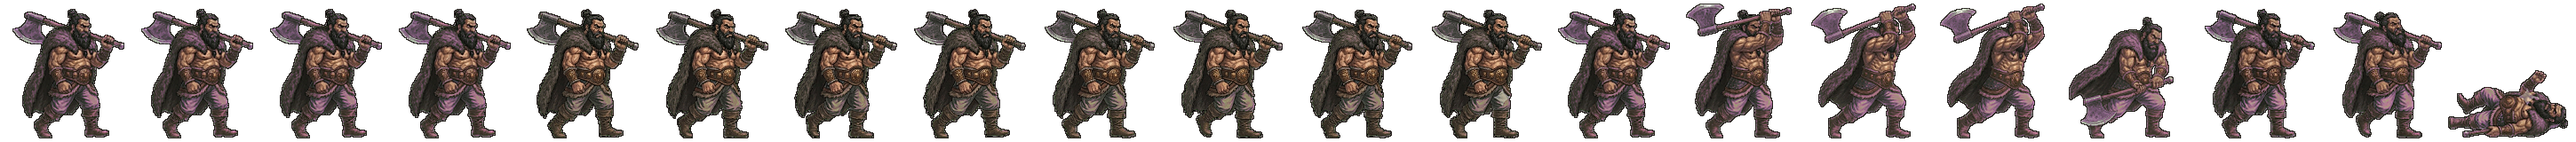
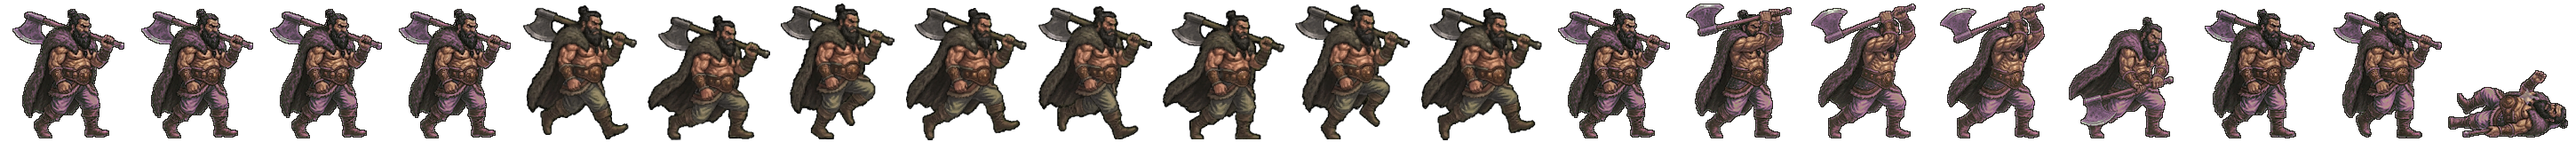
산적 졸개·두목 달리기 띠 여덟 칸을 진짜 달리기로 (제미나이 u/2) · 코드로 다리 흉내내던 drawScissor 걷어냄 · 옛 띠는 retired
Claude-Session: https://claude.ai/code/session_01TRiuN9kn81xgdziumEqNAF

Changed region(s): [[0.1862, 0.0312, 0.6207, 1.0]]

diff --git a/src/pirate/draw.ts b/src/pirate/draw.ts
@@ -71,10 +71,6 @@ const ART = {
   crate: 'pirate/crate.png',
   /** 걸음 한 바퀴(컷 여덟)가 디디는 거리 (m) */
   strideM: 1.6,
-  /** 산적 띠의 허리 높이(위에서 0~1) · 몸 가운데 가로(0~1) · 걸음마다 솟는 몫 (키 대비) */
-  hipV: 0.6,
-  hipX: 0.5,
-  bobV: 0.035,
   /** 공격 컷이 넘어가는 빠르기 (컷/초) */
   hitFps: 10,
   /** 목책에 이만큼 다가오면 칼을 휘두른다 (m) */
@@ -180,29 +176,6 @@ function drawStrip(ctx: CanvasRenderingContext2D, im: HTMLImageElement, ar: numb
   ctx.restore()
 }
 
-/** 걸음 한 걸음 — 허리 위는 그대로(걸음마다 살짝 솟는다), 허리 아래는 가로로 cos 만큼 좌우로 뒤집혀 두 다리가 교대한다 */
-function drawScissor(ctx: CanvasRenderingContext2D, im: HTMLImageElement, ar: number, frame: number, cx: number, soleY: number, tallPx: number, faceLeft: boolean, phase: number): void {
-  const ch = im.naturalHeight
-  const cw = ch * ar
-  const dh = tallPx
-  const dw = dh * ar
-  const hip = ART.hipV
-  const c = Math.cos(phase * Math.PI * 2)
-  const lift = (1 - Math.abs(c)) * ART.bobV * dh
-  const sy = hip * ch
-  ctx.imageSmoothingQuality = 'high'
-  ctx.save()
-  ctx.translate(cx, soleY)
-  if (faceLeft) ctx.scale(-1, 1)
-  // 허리 위
-  ctx.drawImage(im, frame * cw, 0, cw, sy, -dw / 2, -dh - lift, dw, hip * dh)
-  // 허리 아래 — 가운데 축을 기준으로 가로 배율 c (1 → 0 → −1). 발은 땅에 붙고 허리 쪽이 lift 만큼 늘어난다
-  ctx.translate(ART.hipX * dw - dw / 2, 0)
-  ctx.scale(Math.abs(c) < 0.06 ? (c < 0 ? -0.06 : 0.06) : c, 1)
-  ctx.drawImage(im, frame * cw, sy, cw, ch - sy, -ART.hipX * dw, -(1 - hip) * dh - lift, dw, (1 - hip) * dh + lift)
-  ctx.restore()
-}
-
 function drawRunner(ctx: CanvasRenderingContext2D, cam: Camera, w: World, t: Target, x: number, captain: boolean, bandit: boolean, shielded = false, p: PirateRun | null = null): boolean {
   let a: { readonly ar: number; readonly walk0: number; readonly walkN: number; readonly hit0: number; readonly hitN: number; readonly tallM: number } = captain ? ART.captain : ART.sword
   let im: HTMLImageElement | null
@@ -227,11 +200,7 @@ function drawRunner(ctx: CanvasRenderingContext2D, cam: Camera, w: World, t: Tar
     : a.walk0 + (Math.floor((R.spawnX + 4 - t.x) / (ART.strideM / a.walkN) + t.id) % a.walkN)
   const lane: Lane = bandit ? (p?.lane[t.id] ?? 0) : 0
   const soleY = worldToScreenY(cam, bandit ? footY(lane, t.x) : 0)
-  if (bandit && !near && !shielded && !broken) {
-    // 산적 띠는 걷기 칸이 다 같은 자세(한 다리만 앞)라 그대로 돌리면 한쪽 다리로 콩콩 뛴다 (11-12 진단 · 칸 4~11 이 거의 같은 그림).
-    // 한 칸만 쓰고 허리 아래를 좌우로 뒤집었다 펴서 두 다리가 번갈아 앞서는 걸음으로 — 새 띠가 올 때까지의 대용
-    drawScissor(ctx, im, a.ar, a.walk0 + 2, x, soleY, a.tallM * cam.scale, flip, ((R.spawnX + 4 - t.x) / ART.strideM + t.id * 0.37) % 1)
-  } else drawStrip(ctx, im, a.ar, frame, x, soleY, a.tallM * cam.scale, flip) // 도적 띠는 왼쪽(궁수)을 보고 그렸다 · 산적·방패 띠는 오른쪽이라 뒤집는다 (형 11-10)
+  drawStrip(ctx, im, a.ar, frame, x, soleY, a.tallM * cam.scale, flip) // 도적 띠는 왼쪽(궁수)을 보고 그렸다 · 산적·방패 띠는 오른쪽이라 뒤집는다 (형 11-10)
   if (captain && t.hpMax > 0) {
     // 두목의 남은 몸 — 머리 위 한 줄
     const bw = Math.max(36, t.r * 1.6 * cam.scale)

diff --git a/docs/realm/ART-QUEUE.md b/docs/realm/ART-QUEUE.md
@@ -13,10 +13,10 @@
 | retyper92 (계정 고르기에 「YunCheol Shin · retyper92@gmail」 로 뜬다 · 왼쪽 아래 「YunCheol Shin · Free」 · 11-08 밤 형이 바꿔 둠) | **11-11 AM 1:43** (11-11 00:4x 한도 문구 「AM 1:43에까지」 · 새 대화 왼쪽 아래 「YunCheol Shin · Free」(retyper92@gmail) · 진각성 g-103 가락 피도간 첫 장에서 막힘 · 다음은 aw2-g-103 부터) · 옛: **11-09 PM 11:29** (11-09 00:1x 한도 문구 「PM 11:29에」 · 23:4x~00:1x 진각성 다래·무등·소금·매눈·철장군·거인·술꾼 + 「나중에 생성」 무료 예약 셋(쇠보·아단 받음 · 바우 대화 6af08e65 받을 것)) · 옛: **11-06 PM 10:42** (11-05 22:4x~23:18 진각성 열 장 · 한도 문구) · 옛: **11-05 PM 10:11** (형 11-04 밤 · 형이 각성 굽다 다 씀) · 옛: **11-04 PM 8:22** (11-03 20:2x 한도 문구 · 형이 로그인해 준 뒤 열 장쯤) · 옛: 11-03 PM 4:49 | 10-29 15:50 한도 문구 — 15:36 부터 열 장 (사건 romance·wanderer-arrives-g + 초상 g-31·g-39·g-72·L5·L6·L8·L9·L10) · 시각이 지나기 전이라도 한 번 넣어 볼 것 |
 | roqkfeke12 ('윤철 신') | **11-06 PM 11:20** (11-05 23:2x~23:55 진각성 열 장 · 한도 문구) · 옛: **11-05 PM 10:23** (형 11-04 밤 · 형이 각성 굽다 다 씀) · 옛: **11-04 PM 7:03** (11-03 19:4x 한도 문구 · 19:1x 부터 열 장쯤) · 옛: 11-03 PM 5:15 | 10-29 20:21 한도 문구 — 18:46 부터 열 장 (초상 L10 평강 · w-07 무당 여왕 · w-16 문중 어른 · g-34 두만 · g-35 달구 · g-46 누렁소 · g-56 과하마 · w-70 물범 + 군막 바탕 + 자란 아이 y-g-10 명궁) |
 | **Facts Gamble** (형 11-03 밤에 찾은 새 계정 · 왼쪽 아래 「Facts Gamble · Free」) | **11-06 저녁쯤** (11-05 18:44~19:33 진각성 스물한 장 · 스물두째에서 99% 멈춤 = 한도로 봄) · 옛: **11-05 PM 6:25** (11-05 16:00 쇠비 진각성 넣자 「PM 6:25까지」 다시 확인 · 형 11-04 밤 확인 · 20:10 웅녀 각성 뒤) · 옛: 11-04 PM 3:15 쯤 (11-04 14:16 첫 장(수성 바탕)에서 바로 한도 문구 「59분 후」) · 옛: 11-04 PM 2:5x (11-03 16:52 「22시간 후」) | 11-03 15:1x~16:2x 스물한 장 (겹치는 얼굴 넷 · 원군 · 승리 시험 둘 · 4·5장 초상 여섯 · 아홉 간 일곱 · 고침 둘) |
-| retyper (hephaestosian · 'retyper' · 11-11 20:4x 이 PC 크롬 왼쪽 아래 「retyper · Free」) | **11-12 00:15 한도 문구 「이미지 생성 한도에 도달했습니다 … 또는 3분 후까지 기다리면 다시 생성할 수 있습니다」 → 00:21 풀려 진각성 여섯 장(solmae·neoul·darae·galmae·dangung·young-archer) + 자세 바꾸기 후속 넷 = 열 번 구워도 안 막힘 · 다음 한도 시각은 아직 안 뜸** · 옛: **11-12 AM 12:16** (11-11 20:5x 한도 문구 「이미지 생성 한도에 도달했습니다. 현재 무료 이미지를 모두 사용했습니다 … 또는 내일 AM 12:16에까지 기다리면 다시 생성할 수 있습니다」 · 15세 판 w-18 진염 첫 장에서 바로 막힘(그림 못 받음) · 다음은 gpt15_aw1-w-18-jinhan-salt-widow 부터 · 같은 시각 앞서 쓴 hephaestosian 애플 계정 줄 11-11 PM 11:12 는 건드리지 않음 · 그 계정은 15세 첫 장 전송 뒤 「계정 전환 중」으로 retyper 로 넘어감) · 옛: **11-09 PM 9:49** (11-08 23:3x 한도 문구 「내일 PM 9:49에」 · 22:5x~23:3x 1차 각성 남장수 열(g-61~g-70) + 진각성 노을(안 씀 · 형이 직접)·다나·탈해 너울 · 다래에서 막힘) · 옛: **11-06 PM 9:13** (계정 고르기엔 이 계정과 edu 둘만 있다 · retyper92·roqkfeke12·Facts 는 로그인돼 있지 않음 · 11-05 22:3x 한도 문구 · 21:1x~22:3x 진각성 열넷쯤 · 사람마다 다른 옷 틀로 바꿈) · 옛: **11-05 PM 8:31** (형 11-04 밤 · 형이 각성 굽다 다 씀) · 옛: **11-04 PM 6:43** (11-03 19:0x 한도 문구 · 18:4x 부터 열세 장쯤 · 각성 초상) · 옛: 11-03 PM 4:23 | 10-29 23:56 한도 문구 — 23:41 부터 열 장 (자란 아이 y-w-10 · y-g/w-11 · y-g/w-12 · y-g/w-13 · y-g/w-14 · 열 번째 y-w-14 는 문구와 함께 그림도 왔다) |
+| retyper (hephaestosian · 'retyper' · 11-11 20:4x 이 PC 크롬 왼쪽 아래 「retyper · Free」) | **11-12 AM 12:20** (11-12 01:27 한도 문구 「이미지 생성 한도에 도달했습니다. 현재 무료 이미지를 모두 사용했습니다. Plus로 업그레이드하면 … 또는 내일 AM 12:20까지 기다리면 다시 생성할 수 있습니다」 · 왼쪽 아래 「retyper · Free」 · 진각성 g-50 불내 과하 둘째 장(활 되살림) 뒤 g-52 탐라 오름 첫 장에서 막힘 · 다음은 aw2-g-52-tamna-oreum 부터 g-58 우산·g-59 양맥·g-61 압독·g-62 감문·g-63 초발) · 옛: **11-12 00:15 한도 문구 「이미지 생성 한도에 도달했습니다 … 또는 3분 후까지 기다리면 다시 생성할 수 있습니다」 → 00:21 풀려 진각성 여섯 장(solmae·neoul·darae·galmae·dangung·young-archer) + 자세 바꾸기 후속 넷 = 열 번 구워도 안 막힘 · 다음 한도 시각은 아직 안 뜸** · 옛: **11-12 AM 12:16** (11-11 20:5x 한도 문구 「이미지 생성 한도에 도달했습니다. 현재 무료 이미지를 모두 사용했습니다 … 또는 내일 AM 12:16에까지 기다리면 다시 생성할 수 있습니다」 · 15세 판 w-18 진염 첫 장에서 바로 막힘(그림 못 받음) · 다음은 gpt15_aw1-w-18-jinhan-salt-widow 부터 · 같은 시각 앞서 쓴 hephaestosian 애플 계정 줄 11-11 PM 11:12 는 건드리지 않음 · 그 계정은 15세 첫 장 전송 뒤 「계정 전환 중」으로 retyper 로 넘어감) · 옛: **11-09 PM 9:49** (11-08 23:3x 한도 문구 「내일 PM 9:49에」 · 22:5x~23:3x 1차 각성 남장수 열(g-61~g-70) + 진각성 노을(안 씀 · 형이 직접)·다나·탈해 너울 · 다래에서 막힘) · 옛: **11-06 PM 9:13** (계정 고르기엔 이 계정과 edu 둘만 있다 · retyper92·roqkfeke12·Facts 는 로그인돼 있지 않음 · 11-05 22:3x 한도 문구 · 21:1x~22:3x 진각성 열넷쯤 · 사람마다 다른 옷 틀로 바꿈) · 옛: **11-05 PM 8:31** (형 11-04 밤 · 형이 각성 굽다 다 씀) · 옛: **11-04 PM 6:43** (11-03 19:0x 한도 문구 · 18:4x 부터 열세 장쯤 · 각성 초상) · 옛: 11-03 PM 4:23 | 10-29 23:56 한도 문구 — 23:41 부터 열 장 (자란 아이 y-w-10 · y-g/w-11 · y-g/w-12 · y-g/w-13 · y-g/w-14 · 열 번째 y-w-14 는 문구와 함께 그림도 왔다) |
 | 제미나이 u/0 (신윤철 · 무료) | **11-11 23:0x 한도 없음 · 유천간 동작 시트 한 장 구워도 안 막힘** · 옛: **11-11 19~21시 전투 띠 다시 굽기 일곱 장(창·칼·오간 동작 · 도끼병 걷기 · 별 걷기 둘 · 구름 걷기) 구워도 한도 안 뜸 (16:9 · 참고 그림 1~2장)** · 옛: **11-11 02:0x 겨루기 마당 세 장 구워도 한도 안 뜸 (9:16 · 참고 그림 하나)** · 옛: **11-10 00:2x쯤** (11-09 00:2x 「I can create more images as soon as your limit resets」 · 23:33~00:2x 남장수 띠 열한 명 남짓) · 옛: **11-08 PM 11:33** (11-08 21:4x 메뉴 위 「한도 도달 · 오후 11:33에 재설정」 · 오늘 전투 띠·공사 그림 스무 장 남짓) | 11-08 21:41 |
 | 제미나이 u/5 (Facts Gamble · 무료) | **11-11 23:0x 한도 없음 · 신천간 동작 시트 한 장(16:9 · 초상 한 장) 구워도 안 막힘** · 옛: **11-11 02:5x 겨루기 군사 격자 두 장 구워도 한도 안 뜸 (3:2 · 참고 그림 없음)** | 11-11 02:5x |
-| 제미나이 u/2 (retyper · 무료) | **11-11 23:0x 한도 없음 · 매눈 동작 시트 한 장 구워도 안 막힘** · 옛: **11-11 21:4x 한도 없음 · 매눈 걷기 한 장(Flash) 구워도 안 막힘** · 옛: **11-11 01:1x 한도 없음 · 큰 공사 단계 12장 + 큰 잔치 + 완공 장면 넷 = 열일곱 장 뒤에도 안 막힘** · 옛: **11-10 01시쯤** (11-09 01:0x 메뉴 「이미지 만들기」 흐림 · 사용량 보기 · 남장수 띠 여도간~괘유 열네 장쯤) | 11-09 01:0x |
+| 제미나이 u/2 (retyper · 무료) | **11-12 01:0x~01:3x 한도 없음 · 고갯길 배경 둘 + 산적 달리기 시트 넷(졸개 둘·두목 하나 · 16:9 · 참고 그림 한 장) 구워도 안 막힘** · 옛: **11-11 23:0x 한도 없음 · 매눈 동작 시트 한 장 구워도 안 막힘** · 옛: **11-11 21:4x 한도 없음 · 매눈 걷기 한 장(Flash) 구워도 안 막힘** · 옛: **11-11 01:1x 한도 없음 · 큰 공사 단계 12장 + 큰 잔치 + 완공 장면 넷 = 열일곱 장 뒤에도 안 막힘** · 옛: **11-10 01시쯤** (11-09 01:0x 메뉴 「이미지 만들기」 흐림 · 사용량 보기 · 남장수 띠 여도간~괘유 열네 장쯤) | 11-09 01:0x |
 | 제미나이 u/1 (retyper92 · 화면 이름 Muffin Goodbye · 무료) | **11-11 23:0x 한도 없음 · 별(2장)·구름·감실 동작 시트 네 장 구워도 안 막힘 (16:9 · 초상 한 장)** · 옛: **11-11 02:3x 겨루기 군사 줄 두 장 구워도 한도 안 뜸 (16:9 · 참고 그림 없음)** · 옛: **11-10 밤 11시쯤** (11-09 23:11 메뉴 「이미지 만들기」 흐림 · 23:04~23:11 동작 띠 다시 둘(오디·가온 · SPEAR 절 됨) · 다음은 해솔부터) · 옛: **11-09 밤 11시쯤** (11-08 23:13 「I can create more images as soon as your limit resets」 · 22:57~23:13 전투 띠 유천간·사로 달래·탈해 너울 걷기 둘 · 탈해 너울 동작 고침에서 막힘 · 열 장 남짓) | 11-08 23:13 |
 | **제미나이 4 Argon** (Jay u/4 · 이미지 만들기 · 에셋 전용) | **11-04 AM 4:54** (모델 고르기 창에 「한도가 11월 4일 오전 4:54에 초기화」 · Flash·Pro·Argon 모두 · 11-04 03:2x 확인) (11-04 02:06 한도 문구 「I can create more images as soon as your limit resets」 · 11-04 00:5x 부터 열 장쯤: 여창·여활 C · 농민군 A·B·C · 창병 시험 둘 · 소서노 A 둘) · 옛: 11-03 밤 | 11-04 02:06 — 장수 제 띠 소서노 B 에서 막힘. 소서노 A(쓸 것)는 assets_src/realm/gemini/generals/walk2/gen-soseono-a.png · 대화 gemini.google.com/u/4/app/e832d7e8cc84b039 에서 B·C 를 이어 받는다 |
 | 제미나이 edu (u/3 · YunCheol Shin · minerva · 3.1 Pro · 이미지 만들기) | **11-11 PM 10:56 풀림 (11-11 21:3x 한도 문구 「Sorry, I can't generate more images for you today, but come back tomorrow and we can make more.」 + 「You've reached your image generation limit until 11월 11일 오후 10:56.」 · 19:5x~21:3x 전투 띠 시트 열두 장(여궁수·소금비·두만·지백호 동작 + 별·구름·신천간·매눈 걷기 · 새 대화마다 모델이 Flash 로 돌아가 Pro 를 다시 골라야 함) ** · 옛: **11-11 03:2x~03:40 한도 없음 · 도읍 그림(궁궐 판 머리 셋 · 아이콘 셋 · 제천 카드) 일곱 장 뒤에도 안 막힘 (Flash · 16:9)** · 옛: **11-09 11:5x 다시 봐도 막힘 「Sorry, I can't generate more images for you today, but come back tomorrow」(메뉴는 안 흐림 · 보내 봐야 앎 · 오디 SPEAR 시험 못 함)** · 옛: **11-09 04:0x 이미지 막힘 「I can't create more images for you today」 · 다음 날 새벽쯤 풀림 (02:30~04:05 열네 장 남짓: 두만 셋·여도간·일꾼·승리 군기 여섯·미르·오디 실패)** · 옛: **11-08 21:4x 이미지 막힘 「I can't create more images for you today」** (단비 동작 시트에서) · 옛: **11-06 00:0x 이미지 막힘(「텍스트만 만든다」 · 다시 시켜도 거절)** · 11-05 23:1x~23:59 Pro 붐벼 Flash 로 장수 띠 열다섯 장(해비·쇠비·아라·허황옥·감실) · 옛: 11-04 03:2x~03:45 에 열석 장(소서노·알영·해달·송비) · 03:46 부터 보내기를 받고도 몇 분씩 대화를 안 만들고 멈춤(한도 문구 없음) | 첫 보내기는 대화가 안 생기고 멈췄다 — 다시 보내면 된다 · style-anchor 를 같이 주면 옷이 병사 쪽으로 끌려간다(캐릭터 장을 IMAGE 2 로)|
